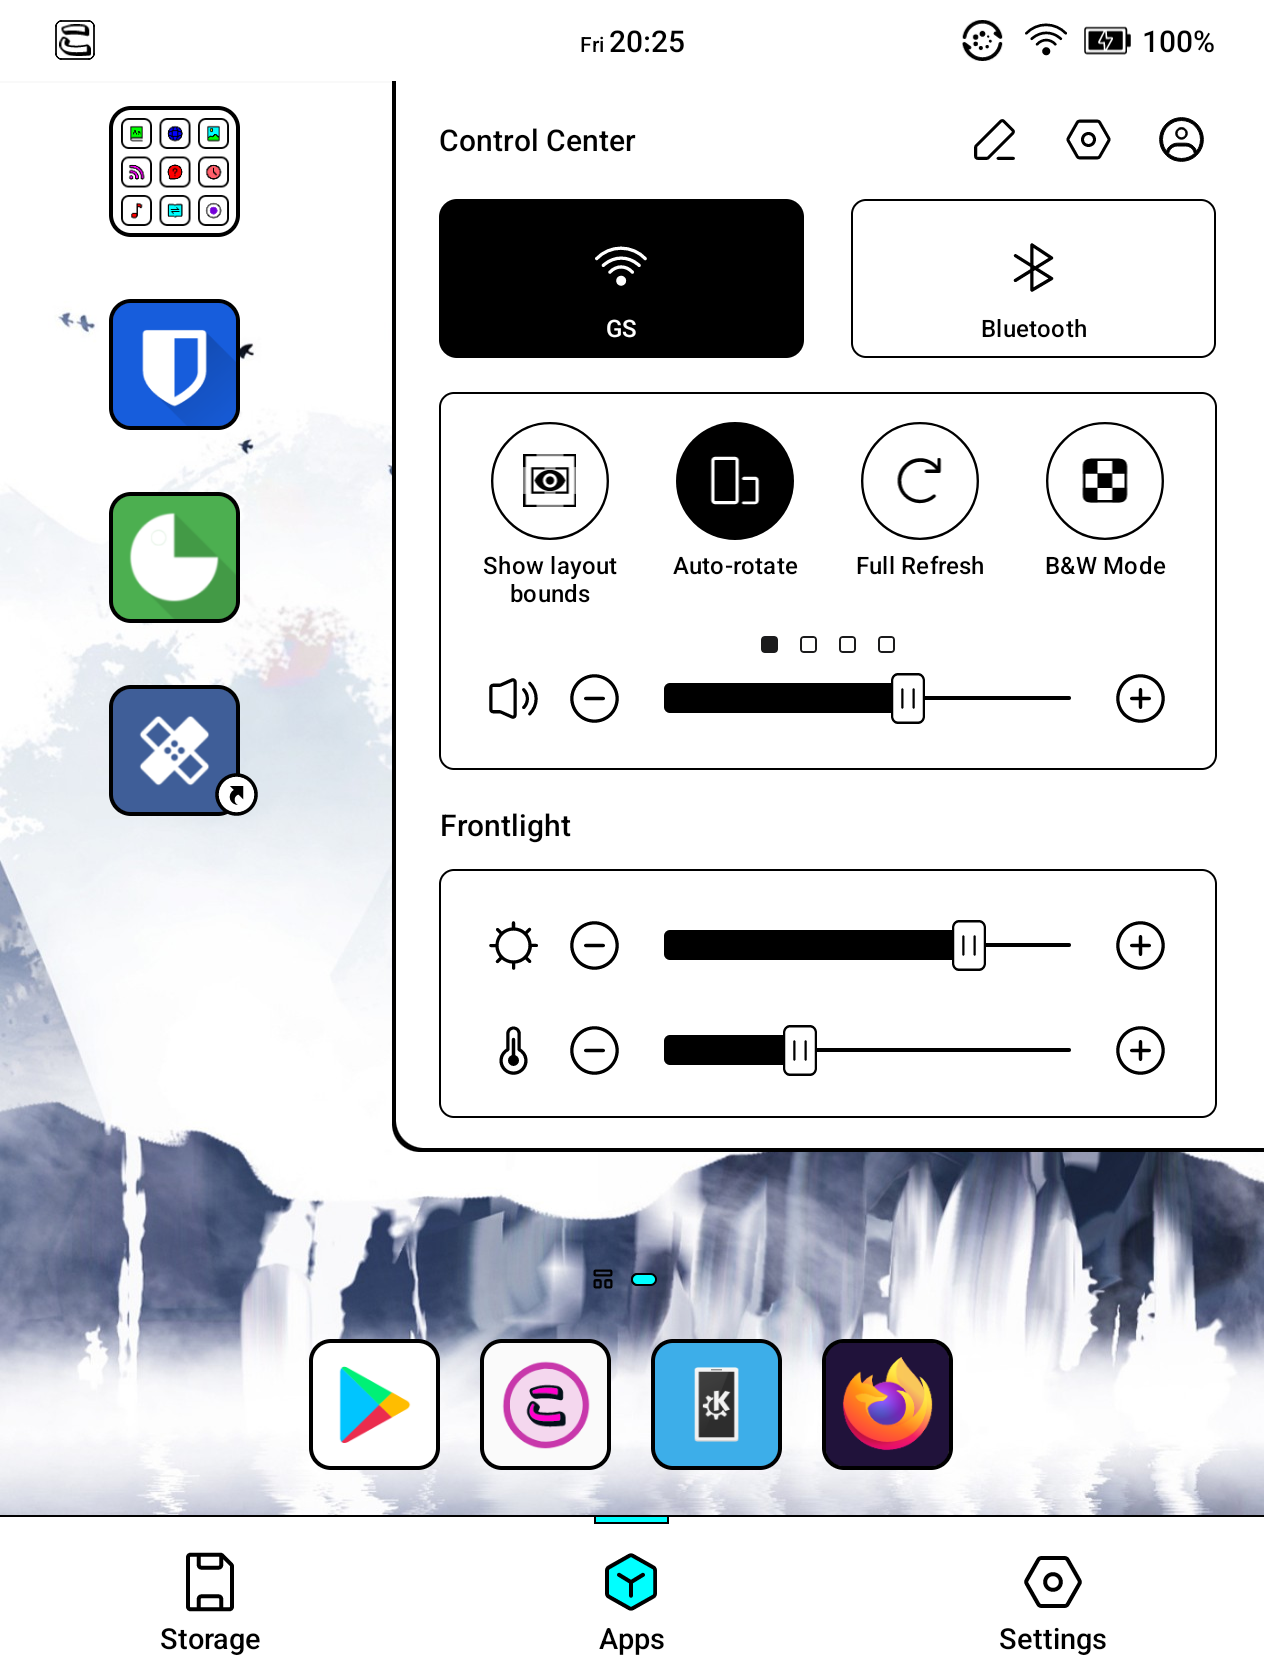
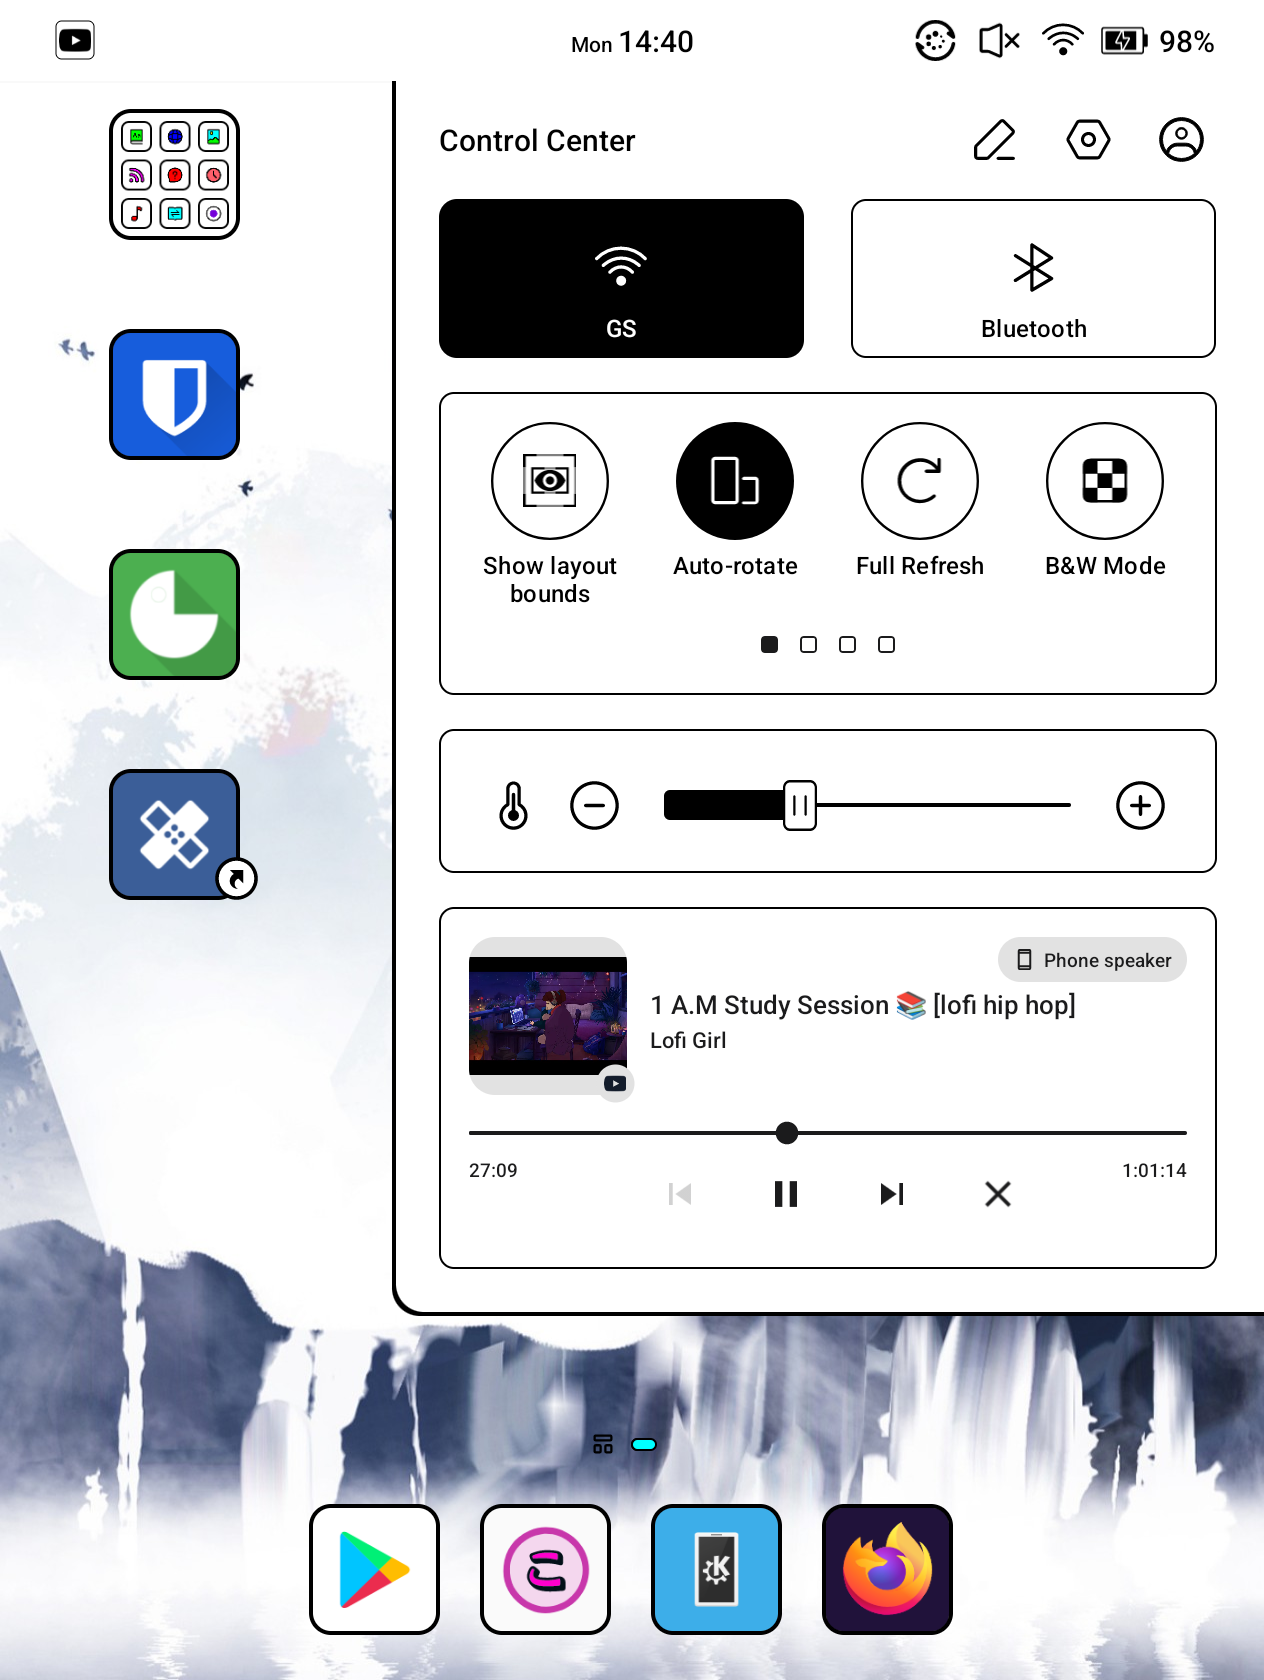
chore: update README and screenshot

diff --git a/README.md b/README.md
@@ -96,6 +96,8 @@ Header
 * Show the settings button, and optionally redirect to Android's stock settings
 
 Panel
+* Inject Android's media controls into the QS panel (seek bar, play/pause buttons, etc. for music apps)
+* Hide panel components (WiFi/BT tiles, tile grid, front-light sliders, volume slider, etc.)
 * Compact panel style (top right only, instead of using the full-screen height)
 * Customize QS grid size
 * Remove minimum tile count restriction 
